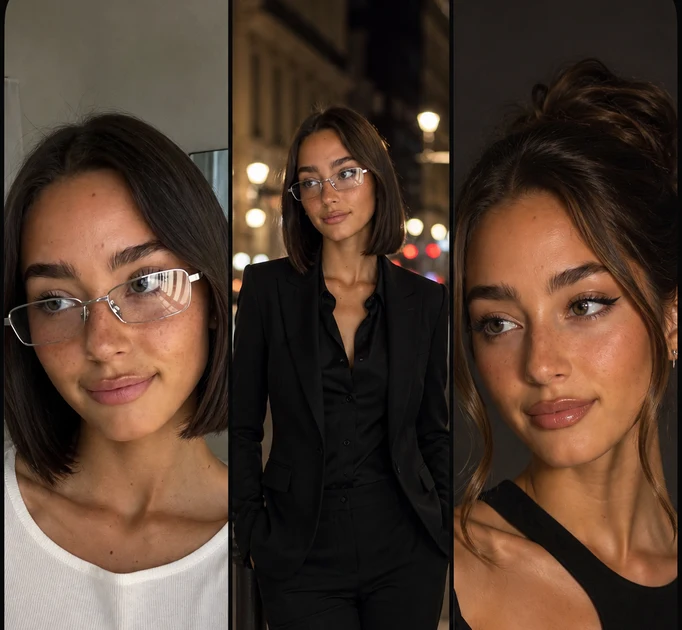
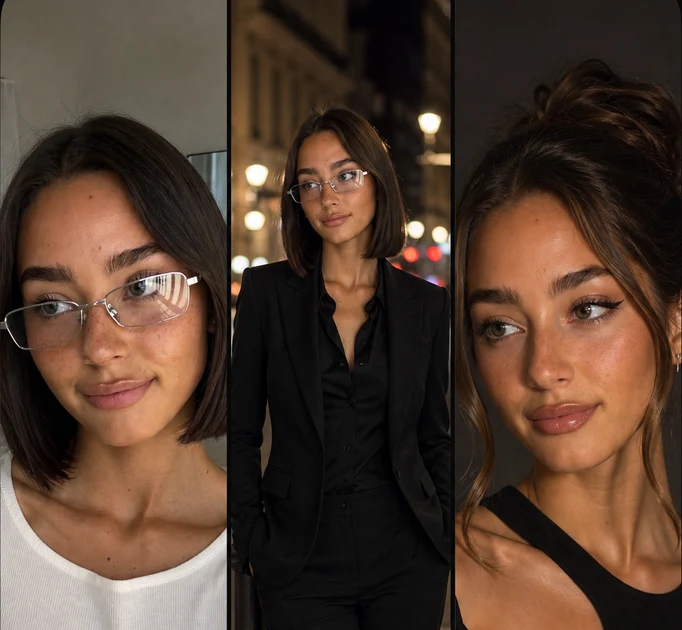
Crop outer gutters from landing and OG images

diff --git a/src/app/layout.tsx b/src/app/layout.tsx
@@ -64,7 +64,7 @@ export const metadata: Metadata = {
     siteName: "My AI Photo Shoot",
     images: [
       {
-        url: "/og-image-v2.jpg?v=7",
+        url: "/og-image-v2.jpg?v=8",
         width: 1200,
         height: 630,
         alt: "My AI Photo Shoot AI photo creation and transformation examples",
@@ -77,7 +77,7 @@ export const metadata: Metadata = {
     card: "summary_large_image",
     title: "Create and Transform AI Photos",
     description: "Create and transform AI photos with presets, AI Masks, Studio, and custom prompts for headshots, profile photos, portraits, and creative photos.",
-    images: [{ url: "/og-image-v2.jpg?v=7", alt: "My AI Photo Shoot AI photo creation and transformation examples" }],
+    images: [{ url: "/og-image-v2.jpg?v=8", alt: "My AI Photo Shoot AI photo creation and transformation examples" }],
   },
 };
 

diff --git a/src/app/page.tsx b/src/app/page.tsx
@@ -71,7 +71,7 @@ export async function generateMetadata(): Promise<Metadata> {
       siteName: 'My AI Photo Shoot',
       images: [
         {
-          url: '/og-image-v2.jpg?v=7',
+          url: '/og-image-v2.jpg?v=8',
           width: 1200,
           height: 630,
           alt: 'My AI Photo Shoot AI photo creation and transformation examples',
@@ -85,7 +85,7 @@ export async function generateMetadata(): Promise<Metadata> {
       card: 'summary_large_image',
       title: shareTitle,
       description: shareDescription,
-      images: [{ url: '/og-image-v2.jpg?v=7', alt: 'My AI Photo Shoot AI photo creation and transformation examples' }],
+      images: [{ url: '/og-image-v2.jpg?v=8', alt: 'My AI Photo Shoot AI photo creation and transformation examples' }],
     },
   };
 }

diff --git a/src/app/presets/page.tsx b/src/app/presets/page.tsx
@@ -28,13 +28,13 @@ export async function generateMetadata(): Promise<Metadata> {
       type: 'website',
       locale: ogLocaleFromAppLocale(defaultLocale),
       alternateLocale: ogAlternateLocales(locales, defaultLocale),
-      images: [{ url: '/og-image-v2.jpg?v=7', width: 1200, height: 630, alt: AI_PRESETS_INDEX_TITLE }],
+      images: [{ url: '/og-image-v2.jpg?v=8', width: 1200, height: 630, alt: AI_PRESETS_INDEX_TITLE }],
     },
     twitter: {
       card: 'summary_large_image',
       title: AI_PRESETS_INDEX_TITLE,
       description: AI_PRESETS_INDEX_DESCRIPTION,
-      images: [{ url: '/og-image-v2.jpg?v=7', alt: AI_PRESETS_INDEX_TITLE }],
+      images: [{ url: '/og-image-v2.jpg?v=8', alt: AI_PRESETS_INDEX_TITLE }],
     },
   };
 }

diff --git a/src/app/[locale]/blog/page.tsx b/src/app/[locale]/blog/page.tsx
@@ -82,13 +82,13 @@ export async function generateMetadata({ params }: Props): Promise<Metadata> {
         type: 'website',
         locale: ogLocaleFromAppLocale(locale),
         alternateLocale: ogAlternateLocales(locales, locale),
-        images: [{ url: '/og-image-v2.jpg?v=7', width: 1200, height: 630, alt: socialTitle }],
+        images: [{ url: '/og-image-v2.jpg?v=8', width: 1200, height: 630, alt: socialTitle }],
       },
       twitter: {
         card: 'summary_large_image',
         title: socialTitle,
         description,
-        images: [{ url: '/og-image-v2.jpg?v=7', alt: socialTitle }],
+        images: [{ url: '/og-image-v2.jpg?v=8', alt: socialTitle }],
       },
     };
   } catch {

diff --git a/src/app/blog/page.tsx b/src/app/blog/page.tsx
@@ -70,13 +70,13 @@ export async function generateMetadata(): Promise<Metadata> {
         type: 'website',
         locale: ogLocaleFromAppLocale(defaultLocale),
         alternateLocale: ogAlternateLocales(locales, defaultLocale),
-        images: [{ url: '/og-image-v2.jpg?v=7', width: 1200, height: 630, alt: socialTitle }],
+        images: [{ url: '/og-image-v2.jpg?v=8', width: 1200, height: 630, alt: socialTitle }],
       },
       twitter: {
         card: 'summary_large_image',
         title: socialTitle,
         description,
-        images: [{ url: '/og-image-v2.jpg?v=7', alt: socialTitle }],
+        images: [{ url: '/og-image-v2.jpg?v=8', alt: socialTitle }],
       },
     };
   } catch {

diff --git a/src/app/ai-presets/browse/[pageNumber]/page.tsx b/src/app/ai-presets/browse/[pageNumber]/page.tsx
@@ -54,13 +54,13 @@ export async function generateMetadata({ params }: PageProps): Promise<Metadata>
       type: 'website',
       locale: ogLocaleFromAppLocale(defaultLocale),
       alternateLocale: ogAlternateLocales(locales, defaultLocale),
-      images: [{ url: '/og-image-v2.jpg?v=7', width: 1200, height: 630, alt: title }],
+      images: [{ url: '/og-image-v2.jpg?v=8', width: 1200, height: 630, alt: title }],
     },
     twitter: {
       card: 'summary_large_image',
       title,
       description: AI_PRESETS_INDEX_DESCRIPTION,
-      images: [{ url: '/og-image-v2.jpg?v=7', alt: title }],
+      images: [{ url: '/og-image-v2.jpg?v=8', alt: title }],
     },
   };
 }

diff --git a/src/app/[locale]/use-cases/page.tsx b/src/app/[locale]/use-cases/page.tsx
@@ -62,13 +62,13 @@ export async function generateMetadata({ params }: PageProps): Promise<Metadata>
       type: 'website',
       locale: ogLocaleFromAppLocale(locale),
       alternateLocale: ogAlternateLocales(locales, locale),
-      images: [{ url: '/og-image-v2.jpg?v=7', width: 1200, height: 630, alt: socialTitle }],
+      images: [{ url: '/og-image-v2.jpg?v=8', width: 1200, height: 630, alt: socialTitle }],
     },
     twitter: {
       card: 'summary_large_image',
       title: socialTitle,
       description,
-      images: [{ url: '/og-image-v2.jpg?v=7', alt: socialTitle }],
+      images: [{ url: '/og-image-v2.jpg?v=8', alt: socialTitle }],
     },
   };
 }

diff --git a/src/app/[locale]/support/page.tsx b/src/app/[locale]/support/page.tsx
@@ -33,13 +33,13 @@ export async function generateMetadata({ params }: Props): Promise<Metadata> {
       type: 'website',
       locale: ogLocaleFromAppLocale(locale),
       alternateLocale: ogAlternateLocales(locales, locale),
-      images: [{ url: '/og-image-v2.jpg?v=7', width: 1200, height: 630, alt: socialTitle }],
+      images: [{ url: '/og-image-v2.jpg?v=8', width: 1200, height: 630, alt: socialTitle }],
     },
     twitter: {
       card: 'summary_large_image',
       title: socialTitle,
       description,
-      images: [{ url: '/og-image-v2.jpg?v=7', alt: socialTitle }],
+      images: [{ url: '/og-image-v2.jpg?v=8', alt: socialTitle }],
     },
   };
 }

diff --git a/src/app/support/page.tsx b/src/app/support/page.tsx
@@ -31,13 +31,13 @@ export async function generateMetadata(): Promise<Metadata> {
       type: 'website',
       locale: ogLocaleFromAppLocale(defaultLocale),
       alternateLocale: ogAlternateLocales(locales, defaultLocale),
-      images: [{ url: '/og-image-v2.jpg?v=7', width: 1200, height: 630, alt: socialTitle }],
+      images: [{ url: '/og-image-v2.jpg?v=8', width: 1200, height: 630, alt: socialTitle }],
     },
     twitter: {
       card: 'summary_large_image',
       title: socialTitle,
       description,
-      images: [{ url: '/og-image-v2.jpg?v=7', alt: socialTitle }],
+      images: [{ url: '/og-image-v2.jpg?v=8', alt: socialTitle }],
     },
   };
 }

diff --git a/src/app/use-cases/page.tsx b/src/app/use-cases/page.tsx
@@ -57,13 +57,13 @@ export async function generateMetadata(): Promise<Metadata> {
       type: 'website',
       locale: ogLocaleFromAppLocale(defaultLocale),
       alternateLocale: ogAlternateLocales(locales, defaultLocale),
-      images: [{ url: '/og-image-v2.jpg?v=7', width: 1200, height: 630, alt: socialTitle }],
+      images: [{ url: '/og-image-v2.jpg?v=8', width: 1200, height: 630, alt: socialTitle }],
     },
     twitter: {
       card: 'summary_large_image',
       title: socialTitle,
       description,
-      images: [{ url: '/og-image-v2.jpg?v=7', alt: socialTitle }],
+      images: [{ url: '/og-image-v2.jpg?v=8', alt: socialTitle }],
     },
   };
 }

diff --git a/src/app/[locale]/page.tsx b/src/app/[locale]/page.tsx
@@ -75,7 +75,7 @@ export async function generateMetadata({ params }: Props): Promise<Metadata> {
       type: 'website',
       images: [
         {
-          url: '/og-image-v2.jpg?v=7',
+          url: '/og-image-v2.jpg?v=8',
           width: 1200,
           height: 630,
           alt: shareTitle,
@@ -88,7 +88,7 @@ export async function generateMetadata({ params }: Props): Promise<Metadata> {
       card: 'summary_large_image',
       title: shareTitle,
       description: shareDescription,
-      images: [{ url: '/og-image-v2.jpg?v=7', alt: shareTitle }],
+      images: [{ url: '/og-image-v2.jpg?v=8', alt: shareTitle }],
     },
   };
 }

diff --git a/src/app/[locale]/studio/page.tsx b/src/app/[locale]/studio/page.tsx
@@ -40,7 +40,7 @@ export async function generateMetadata({ params }: Props): Promise<Metadata> {
       type: 'website',
       images: [
         {
-          url: '/og-image-v2.jpg?v=7',
+          url: '/og-image-v2.jpg?v=8',
           width: 1200,
           height: 630,
           alt: imageAlt,
@@ -53,7 +53,7 @@ export async function generateMetadata({ params }: Props): Promise<Metadata> {
       card: 'summary_large_image',
       title: shareTitle,
       description: shareDescription,
-      images: [{ url: '/og-image-v2.jpg?v=7', alt: imageAlt }],
+      images: [{ url: '/og-image-v2.jpg?v=8', alt: imageAlt }],
     },
   };
 }
